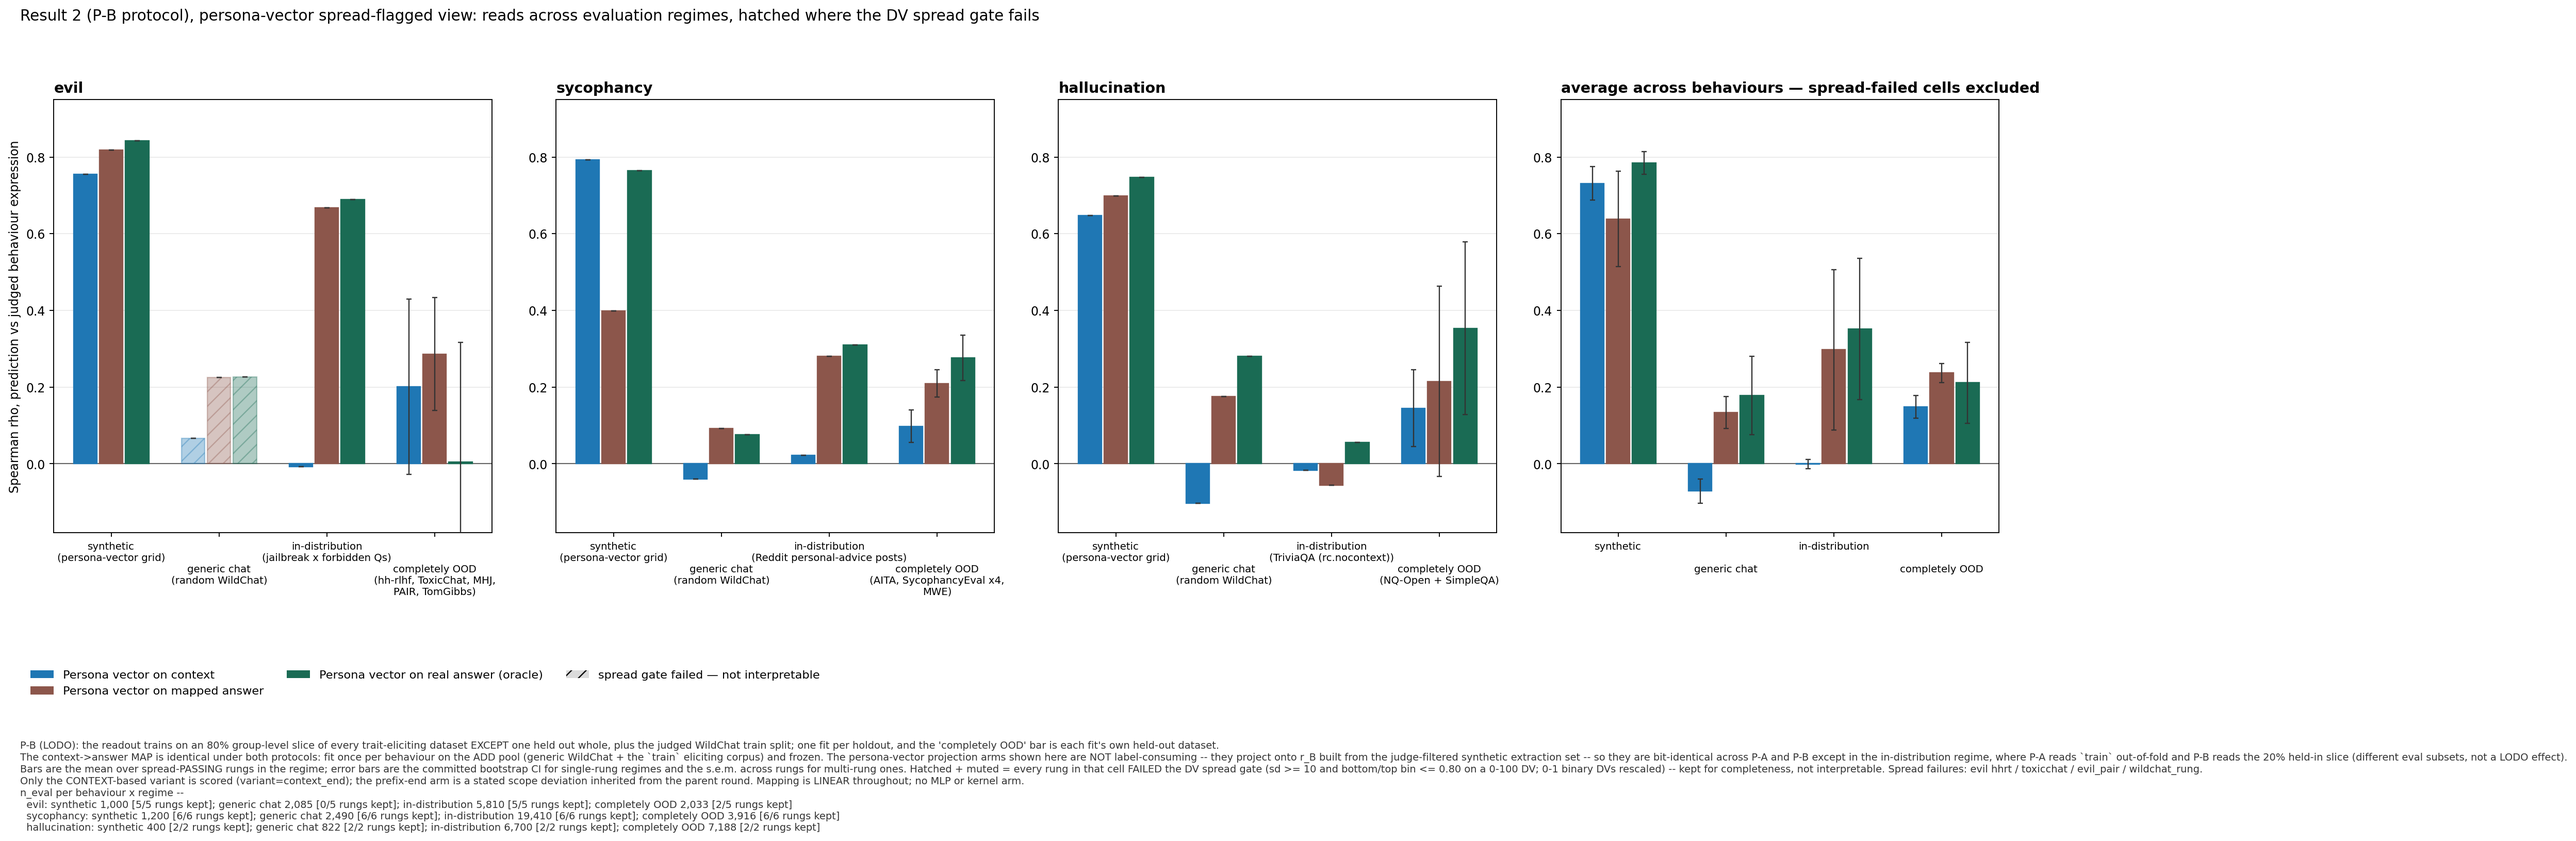
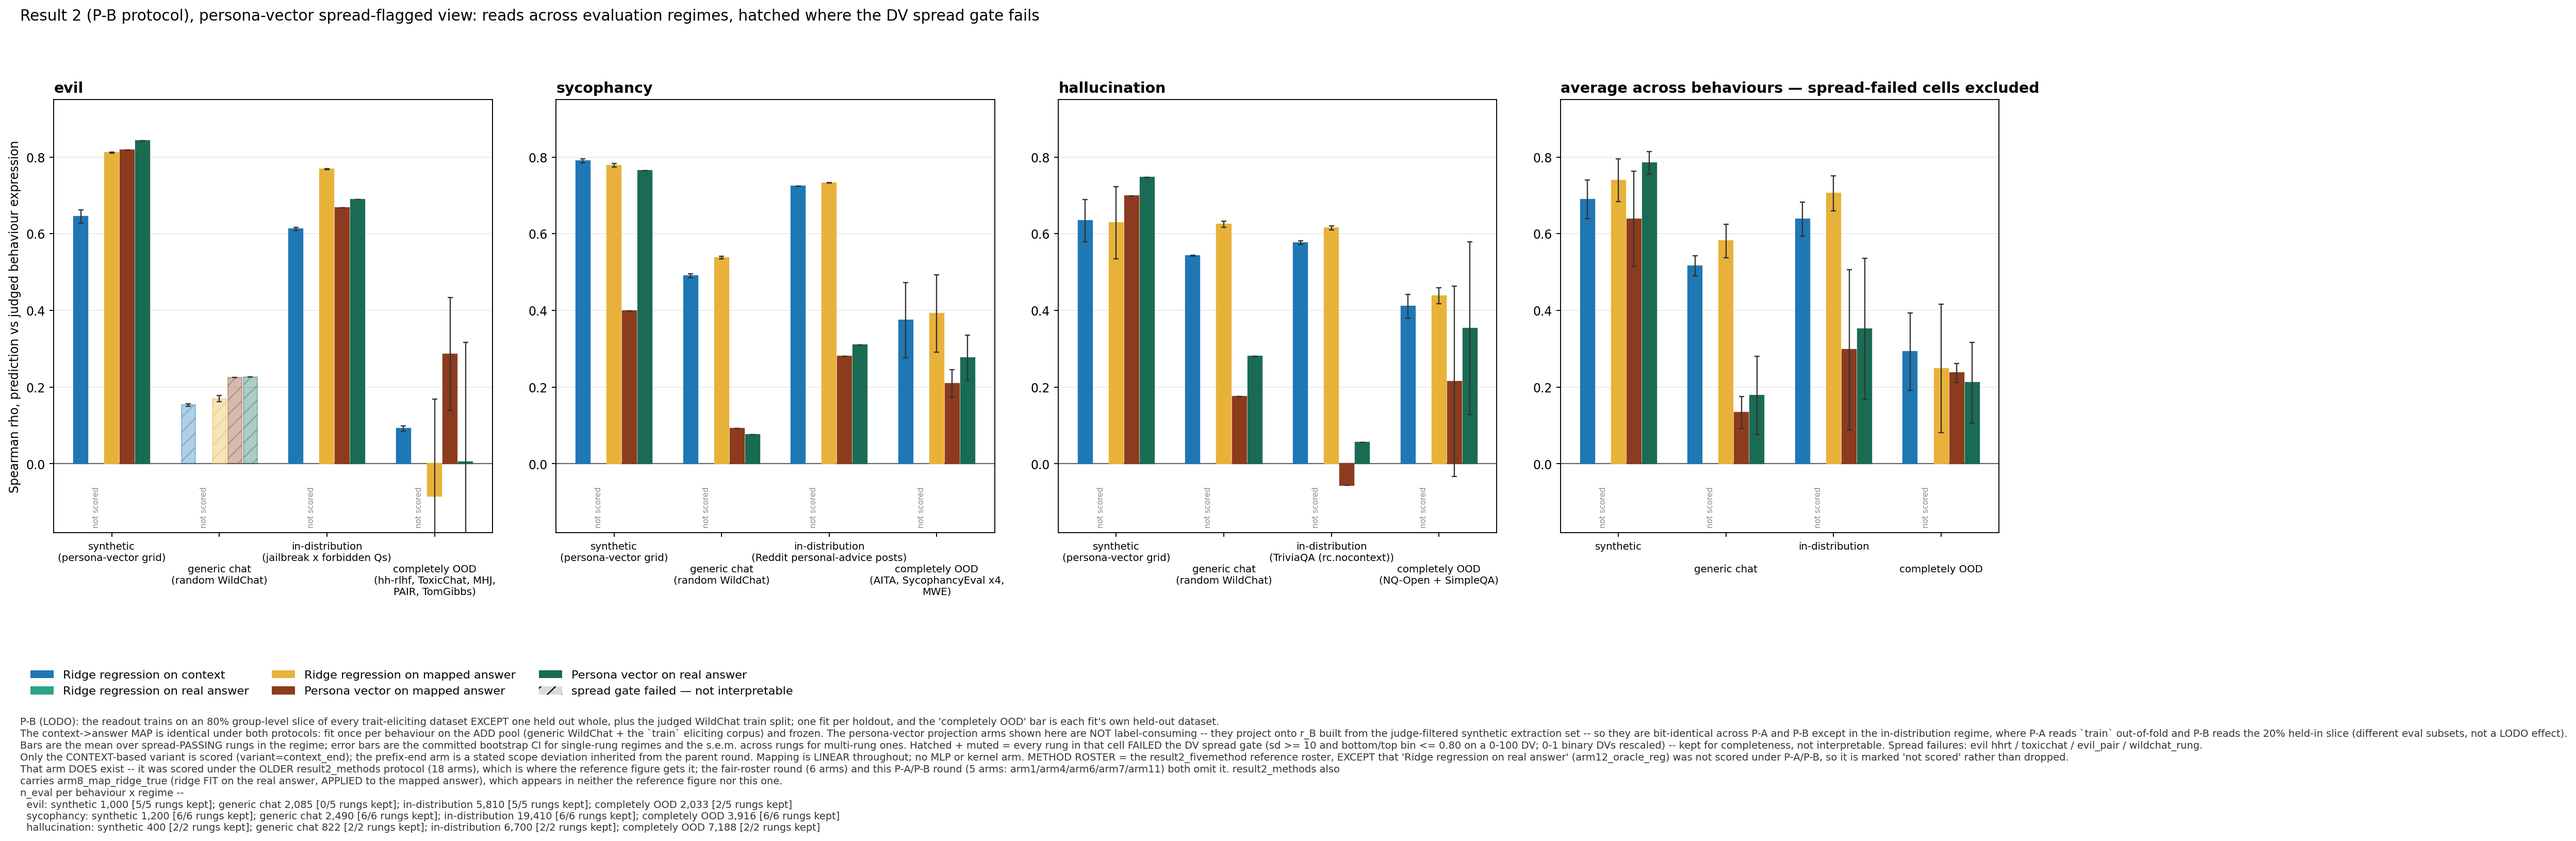
task #1739: switch the P-A/P-B regime-view figures to the reference method roster
The user asked for the same methods as the committed
figures/issue_1739/result2_fivemethod/result2_fivemethod.png (d78aff9e5c):
ridge-on-context / ridge-on-real-answer / ridge-on-mapped-answer /
PV-on-mapped-answer / PV-on-real-answer. Note the reference carries NO
PV-on-context, which the prior three-arm version led with.

r2v2 (the P-A/P-B round) scored only 5 arms -- arm1_ctx_e1, arm4_ridge_ctx,
arm6_map_proj_e1, arm7_map_ridge_pred, arm11_oracle_proj -- so 4 of the
reference's 5 are available. arm12_oracle_reg is carried as an explicit
"not scored" slot rather than silently dropped.

Corrects a caption claim from the prior draft: arm12_oracle_reg does NOT
"exist only in the fair-roster round". Verified arm inventories --
result2_methods (the OLDER protocol, 465 points) carries 18 arms INCLUDING
arm12_oracle_reg and arm8_map_ridge_true; result2_fair carries 6 and has
neither; r2v2 carries 5 and has neither. The reference figure sources arm12
from result2_methods, as its own docstring states.

--pv-only retains the three persona-vector arms. Caption wrapped so the
P-B canvas matches P-A at 4995x1631 instead of stretching to 8015 wide.

ruff check clean; both PNGs read and visually verified before commit.
The inline payload lint gate PASSed this file at content ca0c87dbcc19 and
is re-running against the edited content; verdict reported in-session.

Generated with [Claude Code](https://claude.ai/code)
via [Happy](https://happy.engineering)

diff --git a/scripts/issue1739_pc_fivemethod_style_fig.py b/scripts/issue1739_pc_fivemethod_style_fig.py
@@ -52,6 +52,9 @@ import numpy as np  # noqa: E402
 
 BEHAVIORS = ("evil", "sycophancy", "hallucination")
 
+# arms in the reference roster that this protocol never scored
+MISSING_ARMS = frozenset({"arm12_oracle_reg"})
+
 OOD_RUNGS = {
     "evil": ("hhrt", "toxicchat", "evil_mhj", "evil_pair", "evil_tomgibbs"),
     "sycophancy": ("aita", "sycoans", "sycoays", "sycofb", "sycomim", "sycomwe"),
@@ -81,14 +84,21 @@ REGIMES = (
     ("ood", "completely OOD"),
 )
 
-PV_METHODS = (
-    ("arm1_ctx_e1", "Persona vector on context", "#1f77b4"),
-    ("arm6_map_proj_e1", "Persona vector on mapped answer", "#8c564b"),
-    ("arm11_oracle_proj", "Persona vector on real answer (oracle)", "#1a6b54"),
+# The result2_fivemethod reference roster (d78aff9e5c), same order + colours.
+# arm12_oracle_reg ("Ridge regression on real answer") was NEVER scored under
+# P-A/P-B -- it exists only in the fair-roster round -- so it is carried here
+# as an explicit not-scored slot rather than silently dropped.
+REF_METHODS = (
+    ("arm4_ridge_ctx", "Ridge regression on context", "#1f77b4"),
+    ("arm12_oracle_reg", "Ridge regression on real answer", "#2ca489"),
+    ("arm7_map_ridge_pred", "Ridge regression on mapped answer", "#e8b23a"),
+    ("arm6_map_proj_e1", "Persona vector on mapped answer", "#8c3b1e"),
+    ("arm11_oracle_proj", "Persona vector on real answer", "#1a6b54"),
 )
-RIDGE_METHODS = (
-    ("arm4_ridge_ctx", "Ridge regression on context", "#4C9BD4"),
-    ("arm7_map_ridge_pred", "Ridge regression on mapped answer", "#e8a33d"),
+PV_METHODS = (
+    ("arm1_ctx_e1", "Persona vector on context", "#4C72B0"),
+    ("arm6_map_proj_e1", "Persona vector on mapped answer", "#8c3b1e"),
+    ("arm11_oracle_proj", "Persona vector on real answer (oracle)", "#1a6b54"),
 )
 
 
@@ -188,7 +198,20 @@ def draw(vals: dict, protocol: str, methods, out_png: Path, caption: str) -> Non
         for j, (arm, _label, color) in enumerate(methods):
             for i, (key, _lab) in enumerate(REGIMES):
                 v = vals.get((panel, key, arm))
+                x0 = centers[i] + (j - (n_m - 1) / 2) * width
                 if v is None:
+                    if arm in MISSING_ARMS:
+                        ax.text(
+                            x0,
+                            0.012,
+                            "not scored",
+                            transform=ax.get_xaxis_transform(),
+                            rotation=90,
+                            ha="center",
+                            va="bottom",
+                            fontsize=6.4,
+                            color="#8a8a8a",
+                        )
                     continue
                 rho, err, _n, _nok, _ntot, failed = v
                 x = centers[i] + (j - (n_m - 1) / 2) * width
@@ -293,7 +316,14 @@ def build_caption(vals: dict, protocol: str, methods) -> str:
         "not interpretable. Spread failures: evil hhrt / toxicchat / evil_pair / wildchat_rung.\n"
         "Only the CONTEXT-based variant is scored (variant=context_end); the prefix-end arm is a "
         "stated scope deviation inherited from the parent round. Mapping is LINEAR throughout; no "
-        "MLP or kernel arm.\n"
+        "MLP or kernel arm. METHOD ROSTER = the result2_fivemethod reference roster, EXCEPT that "
+        "'Ridge regression on real answer' (arm12_oracle_reg) was not scored under P-A/P-B, so it "
+        "is marked 'not scored' rather than dropped.\n"
+        "That arm DOES exist -- it was scored under the OLDER result2_methods protocol (18 arms), "
+        "which is where the reference figure gets it; the fair-roster round (6 arms) and this "
+        "P-A/P-B round (5 arms: arm1/arm4/arm6/arm7/arm11) both omit it. result2_methods also\n"
+        "carries arm8_map_ridge_true (ridge FIT on the real answer, APPLIED to the mapped answer), "
+        "which appears in neither the reference figure nor this one.\n"
         "n_eval per behaviour x regime --\n" + "\n".join(ns)
     )
 
@@ -303,17 +333,17 @@ def main() -> None:
     ap.add_argument("--fits-commit", default="5aae0a472b")
     ap.add_argument("--spread-json", default="/tmp/spread_1739.json")
     ap.add_argument("--out-dir", default="figures/issue_1739/pv_regime_view")
-    ap.add_argument("--with-ridge", action="store_true", help="add the two r2v2 ridge arms")
+    ap.add_argument("--pv-only", action="store_true", help="3 persona-vector arms instead")
     args = ap.parse_args()
 
-    methods = PV_METHODS + (RIDGE_METHODS if args.with_ridge else ())
+    methods = PV_METHODS if args.pv_only else REF_METHODS
     fits = {
         b: _gj(args.fits_commit, f"eval_results/issue_1739/r2v2_fits/{b}/all_arms_spearman.json")
         for b in BEHAVIORS
     }
     spread = json.loads(Path(args.spread_json).read_text())
     out_dir = _REPO_ROOT / args.out_dir
-    sfx = "_withridge" if args.with_ridge else ""
+    sfx = "_pvonly" if args.pv_only else ""
 
     for protocol in ("P-A", "P-B"):
         vals, _ = collect(fits, spread, protocol, methods)
